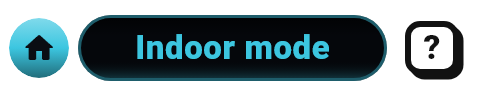
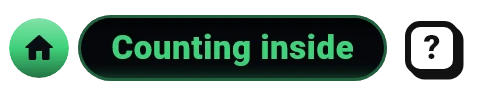
Real steps: the status pill as the app shows it in 2.19.0 (Counting, Counting inside, Warm-up, Unusual motion, Too fast)

diff --git a/index.html b/index.html
@@ -2770,7 +2770,7 @@
             <li><b>Shakes and pickups</b><span>A shaken phone has the wrong rhythm, and a few pickups never add up to a walk.</span></li><li><b>Car and bus rides</b><span>Spotted by their speed and dropped.</span></li><li><b>Treadmills count</b><span>Indoors, your rhythm confirms the steps, and each one counts at your stride.</span></li><li><b>Your stride, measured</b><span>About 30 minutes of walking outside with GPS and WALKn knows your step length, for your distance and your calories. Typing a taller height changes nothing.</span></li>
           </ul>
         </div>
-        <div class="verdict" data-s aria-label="The app's step status: walking outside is Verified, a treadmill is Indoor mode, shaking the phone is Unusual motion, a car is Vehicle; only the first two count" role="img"><div class="vd-scene"><span class="on">Walking outside</span><span>On a treadmill</span><span>Shaking the phone</span><span>In a car</span></div><div class="vd-pill"><img class="p-warmup" src="img/pill_warmup.webp" alt="" /><img class="p-verified on" src="img/pill_verified.webp" alt="" /><img class="p-indoor" src="img/pill_indoor.webp" alt="" /><img class="p-unusual" src="img/pill_unusual.webp" alt="" /><img class="p-vehicle" src="img/pill_vehicle.webp" alt="" /></div><div class="vd-eq" aria-hidden="true"><div class="eq-cell"><small>STEPS<span class="vd-add"></span></small><b class="eq-steps">4,218</b></div><div class="eq-cell"><small><i class="eq-op">&times;</i>YOUR STRIDE</small><b class="eq-val">30.1 in<span class="vd-chip">MEASURED</span></b></div><div class="eq-cell"><small><i class="eq-op">=</i>DISTANCE</small><b class="vd-mi">2.01 mi</b></div></div><div class="vd-tag"><i></i><span>Counted</span></div></div>
+        <div class="verdict" data-s aria-label="The app's step status: walking outside is Counting, a treadmill is Counting inside, shaking the phone is Unusual motion, a car is Too fast; only the first two count" role="img"><div class="vd-scene"><span class="on">Walking outside</span><span>On a treadmill</span><span>Shaking the phone</span><span>In a car</span></div><div class="vd-pill"><img class="p-warmup" src="img/pill_warmup.webp" alt="" /><img class="p-verified on" src="img/pill_verified.webp" alt="" /><img class="p-indoor" src="img/pill_indoor.webp" alt="" /><img class="p-unusual" src="img/pill_unusual.webp" alt="" /><img class="p-vehicle" src="img/pill_vehicle.webp" alt="" /></div><div class="vd-eq" aria-hidden="true"><div class="eq-cell"><small>STEPS<span class="vd-add"></span></small><b class="eq-steps">4,218</b></div><div class="eq-cell"><small><i class="eq-op">&times;</i>YOUR STRIDE</small><b class="eq-val">30.1 in<span class="vd-chip">MEASURED</span></b></div><div class="eq-cell"><small><i class="eq-op">=</i>DISTANCE</small><b class="vd-mi">2.01 mi</b></div></div><div class="vd-tag"><i></i><span>Counted</span></div></div>
       </div></div>
     </section>
 
